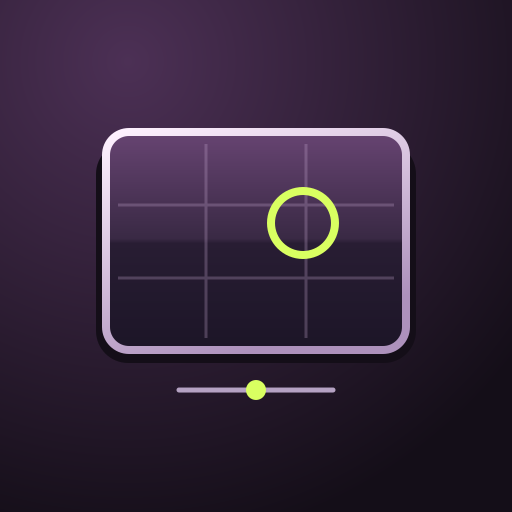
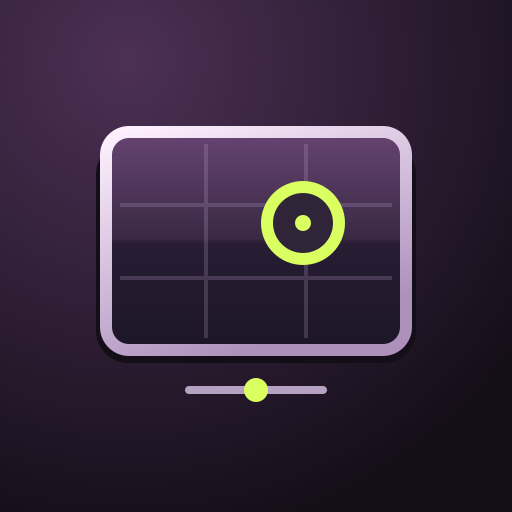
~[workers] Sharpen three marks at launcher size
Attention's finder and lime focus ring hold their shape at home-screen size. Factshift's plus carries more weight inside the tile. Texture's maskable weave keeps the whole red band inside the safe circle. The three carried shells pick up the new icon bytes.

#[episode]{ ~[scene]{ "a reader scans a row of 56 px icons under circular launcher masks" } ![change]{ "strengthen the Attention reticle and Factshift plus, round and inset Texture's maskable band, and carry the new icons and shell versions" } *[verify]{ "67 affected worker tests pass, including the full band pixel check; three carry checks, npm run check:pwa, git diff --check and a 56 px circular preview" } }

Changed region(s): [[0.1875, 0.2188, 0.8125, 0.7812], [0.5, 0.3438, 0.6875, 0.5312]]

diff --git a/workers/factshift-center/assets/sw.js b/workers/factshift-center/assets/sw.js
@@ -67,4 +67,4 @@
     }
     if (kept.has(url.pathname) && !url.search) event.respondWith(keptFile(request, url.pathname));
   });
-})({"version":"9623a10-2026-11-27-site8","files":["/","/_spwashi@/","/assets/edges-22_BZ1dX.js","/assets/index-i2zKM3nW.js","/assets/index-mcYyedel.css","/assets/keystrokes-8mgSf9ko.js","/assets/main-_qtzgt2L.css","/assets/main-ay_2XFZ7.js","/assets/mode-mapfilter-e5MHx_cV.js","/assets/mutex-feed-MQbQ-6D4.js","/assets/nodes-FK1uvlB2.js","/assets/pipeline-qEegefjo.js","/assets/rects-jqUOT9M5.js","/assets/reinit-HuuGH7AR.js","/assets/sounds/bonk.mp3","/assets/spwashi@-g0YoMZaz.css","/assets/spwashi@-O1kydfI5.js","/assets/workbench-adapter-Le3jiwX5.js","/branding/icon-180.png","/branding/icon-192.png","/branding/icon-32.png","/branding/icon-512.png","/branding/icon-96.png","/branding/maskable-512.png","/manifest.json","/v0.0.1/favicon/16.png","/v0.0.1/favicon/192.png","/v0.0.1/favicon/32.png","/v0.0.1/favicon/512.png","/v0.0.1/favicon/96.png","/v0.0.2-alpha/favicon/16.png","/v0.0.2-alpha/favicon/192.png","/v0.0.2-alpha/favicon/32.png","/v0.0.2-alpha/favicon/512.png","/v0.0.2-alpha/favicon/96.png"],"waitMs":3500});
+})({"version":"9623a10-2026-11-27-site9","files":["/","/_spwashi@/","/assets/edges-22_BZ1dX.js","/assets/index-i2zKM3nW.js","/assets/index-mcYyedel.css","/assets/keystrokes-8mgSf9ko.js","/assets/main-_qtzgt2L.css","/assets/main-ay_2XFZ7.js","/assets/mode-mapfilter-e5MHx_cV.js","/assets/mutex-feed-MQbQ-6D4.js","/assets/nodes-FK1uvlB2.js","/assets/pipeline-qEegefjo.js","/assets/rects-jqUOT9M5.js","/assets/reinit-HuuGH7AR.js","/assets/sounds/bonk.mp3","/assets/spwashi@-g0YoMZaz.css","/assets/spwashi@-O1kydfI5.js","/assets/workbench-adapter-Le3jiwX5.js","/branding/icon-180.png","/branding/icon-192.png","/branding/icon-32.png","/branding/icon-512.png","/branding/icon-96.png","/branding/maskable-512.png","/manifest.json","/v0.0.1/favicon/16.png","/v0.0.1/favicon/192.png","/v0.0.1/favicon/32.png","/v0.0.1/favicon/512.png","/v0.0.1/favicon/96.png","/v0.0.2-alpha/favicon/16.png","/v0.0.2-alpha/favicon/192.png","/v0.0.2-alpha/favicon/32.png","/v0.0.2-alpha/favicon/512.png","/v0.0.2-alpha/favicon/96.png"],"waitMs":3500});

diff --git a/workers/texture-website/assets/sw.js b/workers/texture-website/assets/sw.js
@@ -1,5 +1,5 @@
 // Written by workers/texture-website/carry.mjs. The day's picture is chosen in the page, so this shell opens it with no network.
-const CACHE = "texture-ccf037c7c8f7";
+const CACHE = "texture-6716a1e42d75";
 // The materials' pictures, named for their hashes (images.json): a deploy that leaves them alone keeps them.
 const PICTURES = "texture-pictures-e9070412fff6";
 const SHELL = ["/","/texture.css","/texture.js","/daily.js","/lib/near-word.js","/set-ring.js","/set-ring.css","/text-scale.js","/text-scale.css","/text-scale-head.js","/clean-still.js","/clean-still.css","/slot-scrub.js","/slot-scrub.css","/peer/pinch-text-scale.1c2ad61442.js","/vocabulary.json","/favicon.svg","/manifest.webmanifest","/icon-192.png","/icon-512.png","/icon-maskable-512.png"];

diff --git a/workers/attention-productions/assets/sw.js b/workers/attention-productions/assets/sw.js
@@ -1,6 +1,6 @@
 // Written by workers/attention-productions/carry.mjs.
 const ROOT = "attention-productions-";
-const CACHE = ROOT + "b1055c156998";
+const CACHE = ROOT + "dd9e522f50ce";
 const SHELL = new Set(["/vocabulary.js","/compose.js","/materials.js","/set-ring.js","/set-ring.css","/pinch.js","/pinch.css","/text-scale.js","/text-scale.css","/text-scale-head.js","/clean-still.js","/clean-still.css","/slot-scrub.js","/slot-scrub.css","/lib/near-word.js","/","/favicon.svg","/manifest.webmanifest","/lights.css","/attention.js","/attention.css","/peer/pinch-text-scale.1c2ad61442.js","/icon-180.png","/icon-192.png","/icon-512.png","/icon-maskable-512.png"]);
 
 self.addEventListener("install", (event) => {

diff --git a/workers/factshift-center/assets/_spwashi@/index.html b/workers/factshift-center/assets/_spwashi@/index.html
@@ -11,7 +11,7 @@
   <link rel="modulepreload" crossorigin href="/assets/index-i2zKM3nW.js">
   <link rel="stylesheet" crossorigin href="/assets/index-mcYyedel.css">
   <link rel="stylesheet" crossorigin href="/assets/spwashi@-g0YoMZaz.css">
-    <meta name="factshift-site-head" content="8" data-factshift-site-head>
+    <meta name="factshift-site-head" content="9" data-factshift-site-head>
     <meta name="theme-color" content="#4c1d1d">
     <meta name="mobile-web-app-capable" content="yes">
     <meta name="apple-mobile-web-app-capable" content="yes">

diff --git a/workers/factshift-center/assets/index.html b/workers/factshift-center/assets/index.html
@@ -16,7 +16,7 @@
   <link rel="modulepreload" crossorigin href="/assets/index-i2zKM3nW.js">
   <link rel="stylesheet" crossorigin href="/assets/index-mcYyedel.css">
   <link rel="stylesheet" crossorigin href="/assets/main-_qtzgt2L.css">
-    <meta name="factshift-site-head" content="8" data-factshift-site-head>
+    <meta name="factshift-site-head" content="9" data-factshift-site-head>
     <meta name="theme-color" content="#4c1d1d">
     <meta name="mobile-web-app-capable" content="yes">
     <meta name="apple-mobile-web-app-capable" content="yes">

diff --git a/workers/factshift-center/src/shell.js b/workers/factshift-center/src/shell.js
@@ -106,7 +106,7 @@ export const NAVIGATION_WAIT_MS = 3500;
  * 6: a pasted tealstripes or texture address keeps a readable line, a mood colour,
  *    and the physics of the site the reader came from, 2026-11-24.
  */
-export const SITE_REVISION = 8;
+export const SITE_REVISION = 9;
 export const SHELL_VERSION = `${SNAPSHOT.revision}-${SNAPSHOT.snapshot}-site${SITE_REVISION}`;
 
 /** The script at /sw.js, for a snapshot and the files it keeps; carry-shell.mjs writes it into assets/. */

diff --git a/.agents/plans/workers-wonder-kit/PLAN.md b/.agents/plans/workers-wonder-kit/PLAN.md
@@ -150,3 +150,5 @@ From [ecosystem-planes-pivots-ontologies](../../../.spw/audits/ecosystem-planes-
 ## Worker app icon lighting
 
 The seven install marks use upper-left light with material-specific shading. Keep each site's silhouette, icon sizes and launcher safe area. The existing carries or SVG sources own the renders. Review regular and maskable icons at launcher size and run the worker contracts.
+
+At smaller launcher sizes, give the Attention reticle and Factshift plus more weight. Texture's maskable red band sits entirely within the safe circle, which the pixel check verifies across its full width.
